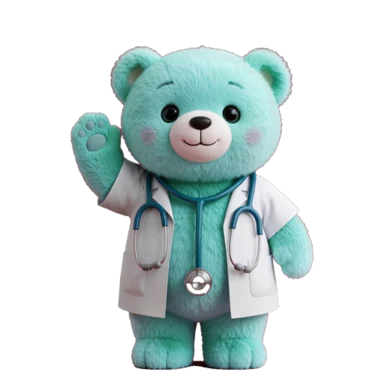
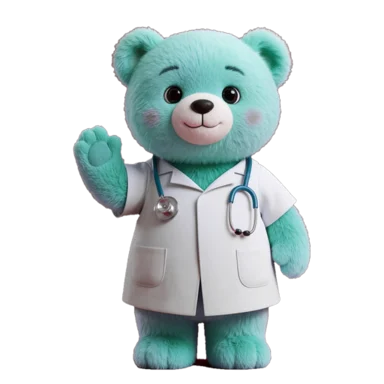
Убрал лишние трубки

Changed region(s): [[0.1562, 0.0625, 0.8438, 0.9688]]

diff --git a/src/components/shared/Bear.tsx b/src/components/shared/Bear.tsx
@@ -3,7 +3,7 @@ import { useTheme } from "next-themes";
 
 export type BearPose = "main" | "thermometer" | "sleep" | "school" | "firstaid" | "night";
 
-export const bearSrc = (pose: BearPose) => `/bear/${pose}.webp?v=2`;
+export const bearSrc = (pose: BearPose) => `/bear/${pose}.webp?v=3`;
 
 const altText: Record<BearPose, string> = {
   main: "Медвежонок-доктор",
